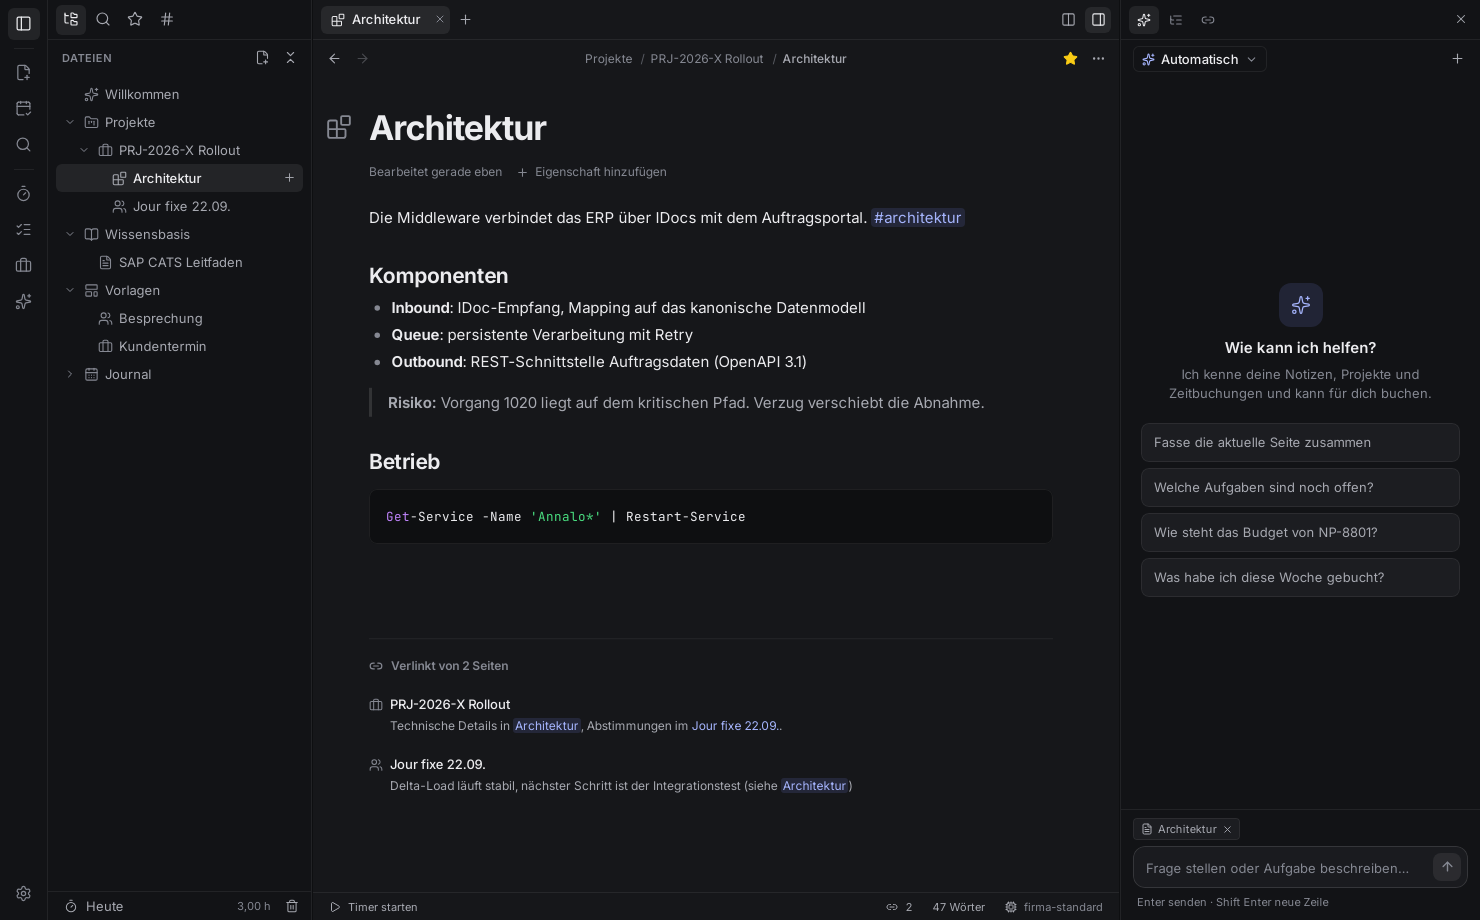
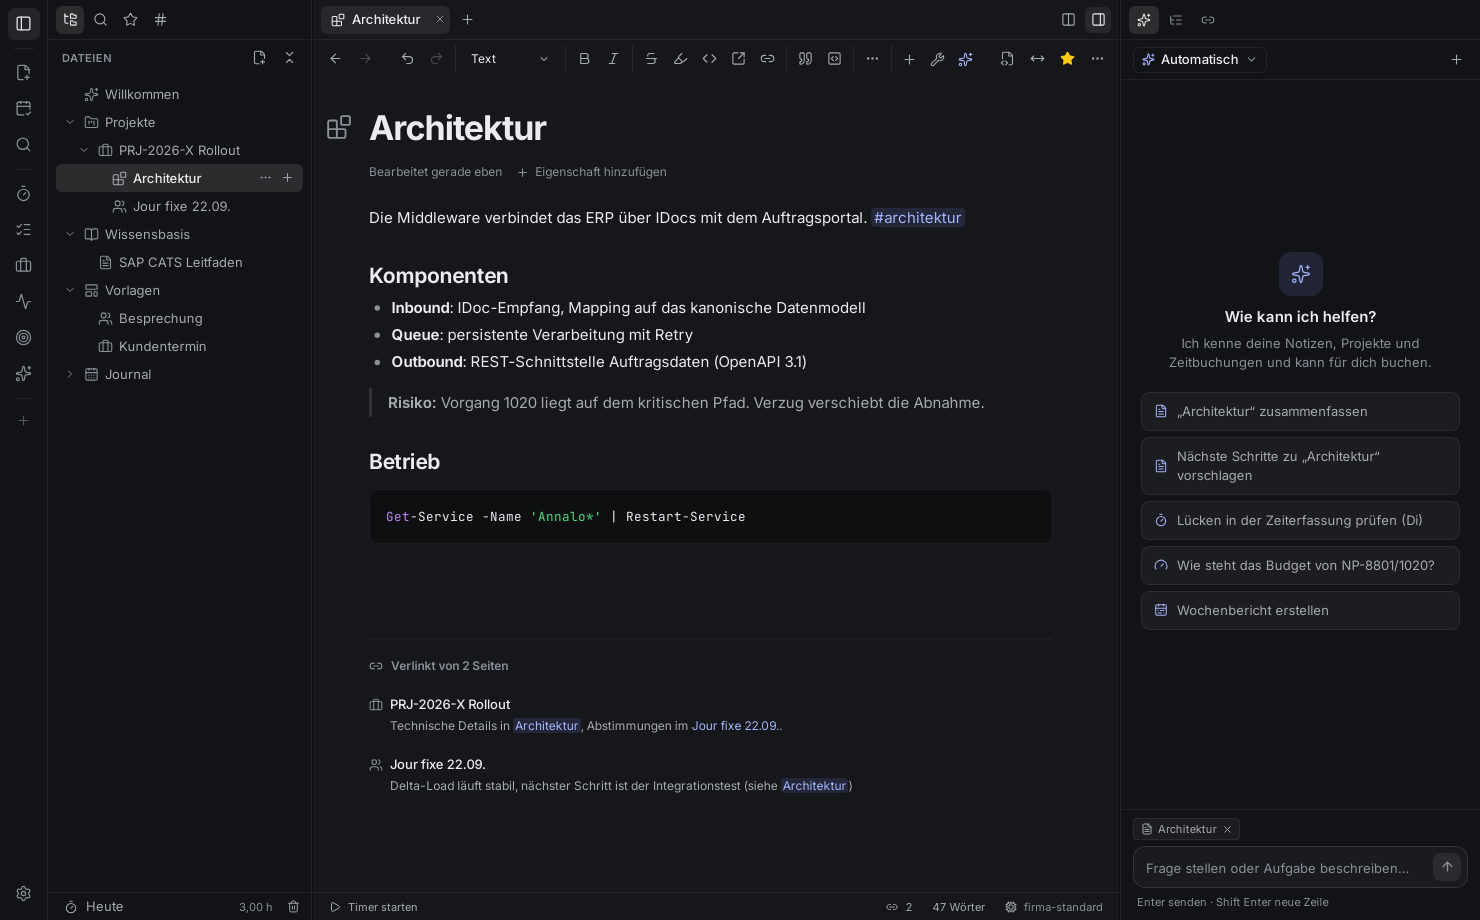
README: new screenshots for 1.3 (boards, tables, editor blocks, presentation, activity, themes); no formatting toolbar over a selected block
- e2e/readme-shots.test.js takes the new tour screenshots with realistic sample content
- The bubble toolbar stays hidden when a whole block is selected (table of contents, image,
  drawing, file): opening a page that starts with [TOC] showed it

diff --git a/e2e/readme-shots.test.js b/e2e/readme-shots.test.js
@@ -1,0 +1,200 @@
+// Screenshots for the README (not part of the test suite): realistic sample content, no test
+// leftovers. Run after building the app, with the output folder of your choice:
+//   ANNALO_SHOTS=../docs/screenshots ANNALO_APP=../target/debug/annalo node --test readme-shots.test.js
+import { test, before, after } from "node:test";
+import { launch } from "./lib/harness.js";
+
+let app;
+before(async () => (app = await launch()));
+after(async () => app?.close());
+
+const sleep = (ms) => new Promise((r) => setTimeout(r, ms));
+const ready = () => app.browser.waitUntil(async () => app.browser.execute(() => document.body.classList.contains("ready")), { timeout: 20000 });
+const openTree = async (title) => {
+  for (const r of await app.$$(".sidebar .tree-row")) if ((await app.textOf(r)) === title) return r.click();
+  throw new Error(`no ${title}`);
+};
+const panel = (open) =>
+  app.browser.execute((o) => {
+    if (!!document.querySelector(".app > .panel") !== o) document.querySelector(".workspace > .pane:last-child .tabbar > button:last-of-type").click();
+  }, open);
+const menuClick = (label) =>
+  app.browser.execute((l) => [...document.querySelectorAll(".menu .menu-item")].find((b) => b.innerText.includes(l))?.click(), label);
+/** A text cursor in the last heading instead of a selected first block. */
+const placeCursor = () => app.click(".pane.active .ProseMirror h2:last-of-type");
+/** Shows a page without the cursor blinking in it and without hover states. */
+const settle = async () => {
+  await app.browser.execute(() => {
+    document.activeElement?.blur?.();
+    getSelection()?.removeAllRanges();
+  });
+  await app.browser.performActions([{ type: "pointer", id: "m", parameters: { pointerType: "mouse" }, actions: [{ type: "pointerMove", x: 5, y: 900 }] }]).catch(() => {});
+  await sleep(500);
+};
+
+const SPRINT = `---
+eigenschaften:
+  status: {typ: auswahl, optionen: {Offen: grau, In Arbeit: blau, Review: gelb, Fertig: grün}}
+  aufwand: zahl
+  fällig: datum
+  wer: person
+ansicht:
+  typ: board
+  gruppierung: status
+  karten: [fällig, wer, aufwand]
+---
+Aufgaben für den Go-Live des Auftragsportals. Status per Drag & Drop ändern.
+`;
+const TASKS = [
+  ["IDoc-Mapping ORDERS05", "Fertig", 6, "2026-09-22", "Anna"],
+  ["Delta-Load testen", "Review", 4, "2026-09-25", "Max"],
+  ["Fehlerqueue mit Retry", "In Arbeit", 8, "2026-09-29", "Max"],
+  ["OpenAPI-Spezifikation", "In Arbeit", 5, "2026-09-30", "Anna"],
+  ["Schulung Fachbereich", "Offen", 3, "2026-10-06", "Lea"],
+  ["Monitoring-Dashboard", "Offen", 5, "2026-10-08", "Max"],
+];
+
+const DECK = `# Statusbericht KW 39
+
+Auftragsportal · Rollout Phase 2
+
+---
+
+## Erreicht
+
+- IDoc-Mapping für Bestellungen abgeschlossen
+- Delta-Load läuft stabil (3 Tage ohne Fehler)
+- API-Spezifikation mit dem Fachbereich abgestimmt
+
+> [!notiz]
+> Anna für das Mapping danken.
+
+---
+
+## Budget
+
+| Vorgang | Plan | Ist |
+|---|---|---|
+| Systemintegration | 120 h | 96 h |
+| Schnittstellen | 80 h | 71 h |
+| Test | 60 h | 18 h |
+
+---
+
+## Nächste Schritte
+
+1. Integrationstest mit dem Fachbereich
+2. Go-Live-Checkliste freigeben
+3. Schulung am 6. Oktober
+`;
+
+const BLOCKS = `[TOC]
+
+## Zielbild
+
+Das Auftragsportal übergibt Bestellungen per IDoc an SAP[^1]; Status und Lieferdaten kommen per Delta-Load zurück.
+
+<!-- spalten -->
+
+### Vorteile
+
+- Keine Doppelerfassung
+- Status in Echtzeit
+- Fehler landen in einer Queue
+
+<!-- spalte -->
+
+### Risiken
+
+- Mapping-Aufwand für Sonderfälle
+- Abhängigkeit vom Middleware-Team
+
+<!-- /spalten -->
+
+> [!tip]+ Entscheidung
+> Wir starten mit Bestellungen, Retouren folgen in Phase 3.
+
+> [!info]- Technische Details
+> Queue: persistente Verarbeitung mit Retry, maximal 5 Versuche.
+
+## Offene Fragen
+
+- [ ] Freigabeprozess für Stammdaten klären due:2026-10-01
+- [x] Testsystem bereitstellen
+
+[^1]: Nachrichtentyp ORDERS05, Basistyp ORDERS05, Erweiterung ZORD.
+`;
+
+test("README screenshots", async () => {
+  // Sample pages next to the demo workspace.
+  const sprint = await app.invoke("page_create", { parentId: null, title: "Sprint Go-Live", icon: "folder-kanban", content: SPRINT });
+  for (const [title, status, aufwand, faellig, wer] of TASKS) {
+    await app.invoke("page_create", {
+      parentId: sprint.id,
+      title,
+      icon: null,
+      content: `---\nstatus: ${status}\naufwand: ${aufwand}\nfällig: ${faellig}\nwer: ${wer}\n---\n`,
+    });
+  }
+  // The board uses the whole pane (Volle Breite, next to the star).
+  await app.browser.execute((id) => localStorage.setItem("annalo.page-full", JSON.stringify([id])), sprint.id);
+  await app.invoke("page_create", { parentId: null, title: "Statusbericht KW 39", icon: "flag", content: DECK });
+  await app.invoke("page_create", { parentId: null, title: "Konzept Auftragsportal", icon: "book-open", content: BLOCKS });
+  await app.browser.refresh();
+  await ready();
+
+  // Board and table, without the side panel so the columns have room.
+  await panel(false);
+  await openTree("Sprint Go-Live");
+  await app.waitFor(".pane.active .coll .board-col");
+  await settle();
+  await app.shot("board-view");
+  await app.browser.execute(() => [...document.querySelectorAll(".pane.active .coll button")].find((b) => b.innerText.trim() === "Tabelle")?.click());
+  await app.waitFor(".pane.active .coll-table");
+  await settle();
+  await app.shot("table-view");
+
+  // Editor blocks: table of contents, columns, callouts, footnotes.
+  await openTree("Konzept Auftragsportal");
+  await app.waitFor(".pane.active .ProseMirror h2");
+  await placeCursor();
+  await settle();
+  await app.shot("editor-blocks");
+
+  // Presentation.
+  await openTree("Statusbericht KW 39");
+  await app.waitFor(".pane.active .ProseMirror");
+  await app.click('.pane.active .vh [aria-label="Weitere Aktionen"]');
+  await menuClick("Präsentieren");
+  await app.waitFor(".presentation .present-slide");
+  await app.keys(["ArrowRight"]);
+  await app.keys(["ArrowRight"]);
+  await sleep(3500); // the controls fade out
+  await app.shot("presentation");
+  await app.keys(["Escape"]);
+  await sleep(600);
+
+  // Activity feed with the side panel.
+  await panel(true);
+  await app.click('.ribbon [aria-label^="Aktivität"]');
+  await app.waitFor(".activity-item");
+  await settle();
+  await app.shot("activity-feed");
+
+  // Theme picker, then the app in a dark theme.
+  await app.keys(["Control", ","]);
+  await app.click('.settings-nav-item[data-section="appearance"]');
+  await app.waitFor(".theme-card");
+  await settle();
+  await app.shot("theme-picker");
+  const view = await app.invoke("settings_get");
+  await app.invoke("settings_save", { settings: { ...view.settings, theme: "dark", appearance: { ...view.settings.appearance, theme_dark: "tokyo-night" } } });
+  await app.browser.refresh();
+  await ready();
+  await openTree("Konzept Auftragsportal");
+  await app.waitFor(".pane.active .ProseMirror h2");
+  await placeCursor();
+  await settle();
+  await app.shot("theme-tokyo-night");
+  await app.invoke("settings_save", { settings: view.settings });
+});

diff --git a/ui/src/editor/NoteEditor.tsx b/ui/src/editor/NoteEditor.tsx
@@ -21,6 +21,7 @@ import { findKey } from "./find";
 import { TableToolbar } from "./TableToolbar";
 import { EditorToolbar } from "./EditorToolbar";
 import { createPortal } from "react-dom";
+import { NodeSelection } from "@tiptap/pm/state";
 import { moveBlock } from "./tools";
 import { ImageViewer, imageMenu } from "./imageMenu";
 import { InlineAiBar } from "./InlineAiBar";
@@ -631,7 +632,8 @@ export function NoteEditor({
         </div>
       )}
       {editor && (
-        <BubbleMenu editor={editor} className="bubble" shouldShow={({ editor: e, state }) => find === null && !aiOpen.current && !state.selection.empty && !e.isActive("codeBlock") && !e.isActive("wikiLink") && !e.isActive("timeEntry") && !e.isActive("imageEmbed") && !e.isActive("image")}>
+        // A selected block (table of contents, image, drawing, file) has no text to format.
+        <BubbleMenu editor={editor} className="bubble" shouldShow={({ editor: e, state }) => find === null && !aiOpen.current && !state.selection.empty && !(state.selection instanceof NodeSelection) && !e.isActive("codeBlock") && !e.isActive("wikiLink") && !e.isActive("timeEntry") && !e.isActive("imageEmbed") && !e.isActive("image")}>
           <IconButton icon={Bold} label={`Fett (${keys("Mod B")})`} active={ui?.bold} onClick={() => editor.chain().focus().toggleBold().run()} tooltipSide="top" />
           <IconButton icon={Italic} label={`Kursiv (${keys("Mod I")})`} active={ui?.italic} onClick={() => editor.chain().focus().toggleItalic().run()} tooltipSide="top" />
           <IconButton icon={Strikethrough} label="Durchgestrichen" active={ui?.strike} onClick={() => editor.chain().focus().toggleStrike().run()} tooltipSide="top" />

diff --git a/README.md b/README.md
@@ -64,6 +64,28 @@ shows a preview of the linked page.
   <img src="docs/screenshots/versions-diff.png" width="49%" alt="Version history with diff">
 </p>
 
+### Tables, boards and page layouts
+
+Give the subpages of a page typed properties (selection, number, date, person, …) and show them as a sortable,
+filterable table or as a Kanban board: drag a card to another column and its status changes. Notes get foldable
+sections, columns, a live table of contents and footnotes, all plain Markdown that Obsidian reads too.
+
+<p align="center">
+  <img src="docs/screenshots/board-view.png" width="49%" alt="Subpages as a Kanban board">
+  <img src="docs/screenshots/table-view.png" width="49%" alt="Subpages as a table with typed properties">
+</p>
+<p align="center"><img src="docs/screenshots/editor-blocks.png" width="90%" alt="Table of contents, columns, foldable callouts and footnotes"></p>
+
+### Present, focus, look back
+
+Any note becomes a full-screen presentation, split at `---`, with speaker notes and a presenter view. Focus sessions
+book their time on a Vorgang by themselves, and the activity feed answers "Was habe ich am Dienstag gemacht?".
+
+<p align="center">
+  <img src="docs/screenshots/presentation.png" width="49%" alt="A note as a presentation">
+  <img src="docs/screenshots/activity-feed.png" width="49%" alt="Activity feed with the day summary">
+</p>
+
 ### Your own start page
 
 Widgets for today's tasks, booked hours this week, budget warnings, recent pages, bookmarks, the timer, a note and the
@@ -114,13 +136,17 @@ quick search (Ctrl Shift O) works from any program.
 
 ### Made to fit you
 
-Light or dark mode, any accent color, fonts, density, language (German/English) and rebindable shortcuts. The
+20 themes (Nord, Catppuccin, Dracula, Solarized, Gruvbox, Tokyo Night, GitHub, Rosé Pine, Everforest, high contrast
+and more) plus your own, accent colors, fonts, density, language (German/English) and rebindable shortcuts. The
 settings also cover proxy and certificates for company networks and Git backup.
 
 <p align="center">
-  <img src="docs/screenshots/settings-appearance-teal.png" width="32%" alt="Appearance settings">
-  <img src="docs/screenshots/settings-network.png" width="32%" alt="Network and proxy settings">
-  <img src="docs/screenshots/settings-git-sync.png" width="32%" alt="Git sync settings">
+  <img src="docs/screenshots/theme-picker.png" width="49%" alt="Theme picker">
+  <img src="docs/screenshots/theme-tokyo-night.png" width="49%" alt="Annalo in the Tokyo Night theme">
+</p>
+<p align="center">
+  <img src="docs/screenshots/settings-network.png" width="49%" alt="Network and proxy settings">
+  <img src="docs/screenshots/settings-git-sync.png" width="49%" alt="Git sync settings">
 </p>
 
 ## What you get

diff --git a/docs/releases/v1.3.0.md b/docs/releases/v1.3.0.md
@@ -41,3 +41,5 @@ Annalo 1.3.0
 
 - **A note with an image on a line of its own** (`![Bild](attachments/bild.png)`) could make the window go blank on the first edit.
 - **Grey, washed-out sidebar on Windows 11**: the see-through effect (Mica) is now off by default; when switched on, the sidebar uses the theme's color and stays readable.
+- **Formatting toolbar over selected blocks**: opening a page that starts with a table of contents (or clicking an image, drawing or file) no longer shows the text formatting toolbar.
+- **Table filter**: choosing a value in the filter popup no longer closes it.
